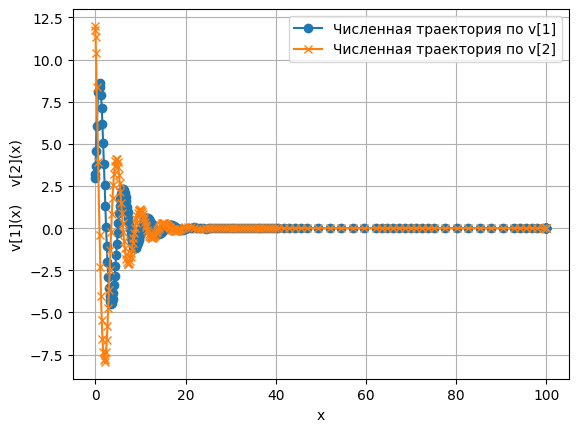
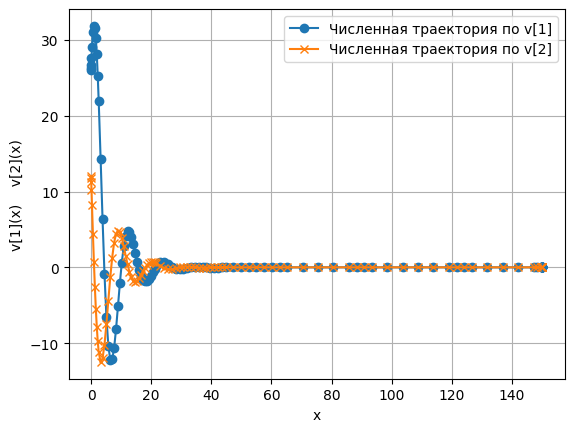
+

diff --git a/TASK_11/TASK11_RK4.py b/TASK_11/TASK11_RK4.py
@@ -27,14 +27,16 @@ def plot():
    plt.savefig('График_Фазовый_Задача_11.png', bbox_inches='tight')
 
 #* Всякий функционал
-def record(x1, v1, h, h0, n, olp_, S_, olp, S, x_1, v_1, i):
+def record(x1, v1, x2, v2, h, h0, n, olp_, S_, olp, S, x_1, v_1, x_2, v_2, i):
    olp.append(olp_)
    S.append(S_)
    h.append(h0)
    x_1.append(x1)
    v_1.append(v1)
+   x_2.append(x2)
+   v_2.append(v2)
    n.append(i)
-   return h, n, olp, S, x_1, v_1
+   return h, n, olp, S, x_1, v_1, x_2, v_2
 
 def znach(x1, v1, x2, v2, h, h0, n, olp, S, C1, C2, x_1, v_1, x_2, v_2, i):
    S_ = (v2 - v1)/15
@@ -42,11 +44,11 @@ def znach(x1, v1, x2, v2, h, h0, n, olp, S, C1, C2, x_1, v_1, x_2, v_2, i):
    olp_ = S_norm*16
    if (contr_loc_ == 1):
       if((epsilon/32) <= abs(S_norm) <= epsilon):
-         h, n, olp, S, x_1, v_1 = record(x1, v1, h, h0, n, olp_, S_, olp, S, x_1, v_1, i)
+         h, n, olp, S, x_1, v_1, x_2, v_2 = record(x1, v1, x2, v2, h, h0, n, olp_, S_, olp, S, x_1, v_1, x_2, v_2, i)
          h0 = h0
          i = i + 1
       elif(abs(S_norm) <= (epsilon/32)):
-         h, n, olp, S, x_1, v_1 = record(x1, v1, h, h0, n, olp_, S_, olp, S, x_1, v_1, i)
+         h, n, olp, S, x_1, v_1, x_2, v_2 = record(x1, v1, x2, v2, h, h0, n, olp_, S_, olp, S, x_1, v_1, x_2, v_2, i)
          C1 = C1 + 1
          h0 = 2*h0
          i = i + 1
@@ -58,7 +60,7 @@ def znach(x1, v1, x2, v2, h, h0, n, olp, S, C1, C2, x_1, v_1, x_2, v_2, i):
          C2 = C2 + 1
          h0 = h0/2
    else:
-      h, n, olp, S, x_1, v_1 = record(x1, v1, h, h0, n, olp_, S_, olp, S, x_1, v_1, i)
+      h, n, olp, S, x_1, v_1, x_2, v_2 = record(x1, v1, x2, v2, h, h0, n, olp_, S_, olp, S, x_1, v_1, x_2, v_2, i)
       C1 = 0
       C2 = 0
       i = i + 1
@@ -97,8 +99,6 @@ def RK4(x0, v0, h0, Nmax):
          x2 = x2 + h0/2
          v2 = v2 + h0/12 * (k1_2 + 2*k2_2 + 2*k3_2 + k4_2)
          j = j + 1
-      x_2.append(x2)
-      v_2.append(v2)
       x1, v1, x2, v2, h, h0, n, olp, S, C1, C2, x_1, v_1, x_2, v_2, i = znach(x1, v1, x2, v2, h, h0, n, olp, S, C1, C2, x_1, v_1, x_2, v_2, i)
       z = func_border(x1)
       if (z == 0):
@@ -116,7 +116,7 @@ def RK4(x0, v0, h0, Nmax):
          v2 = v_2[-1]
          n.pop(-1)
          i = i - 1
-         h0 = h0/2
+         h0 = h0/4
    return n, h, x_1, v_1, v_2, olp, C1, C2
 
 #* Терминал
